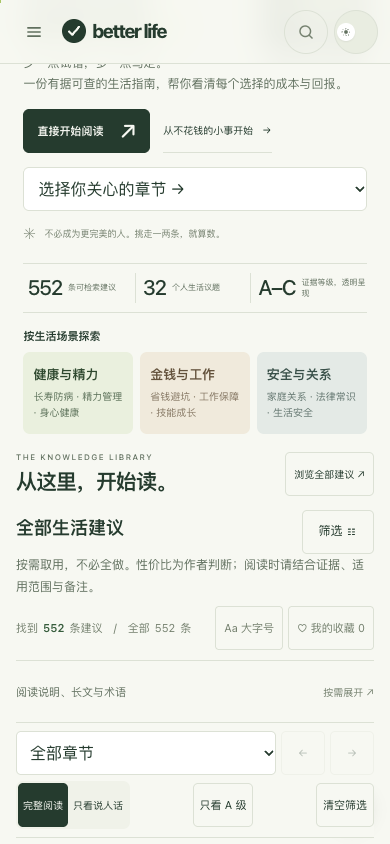
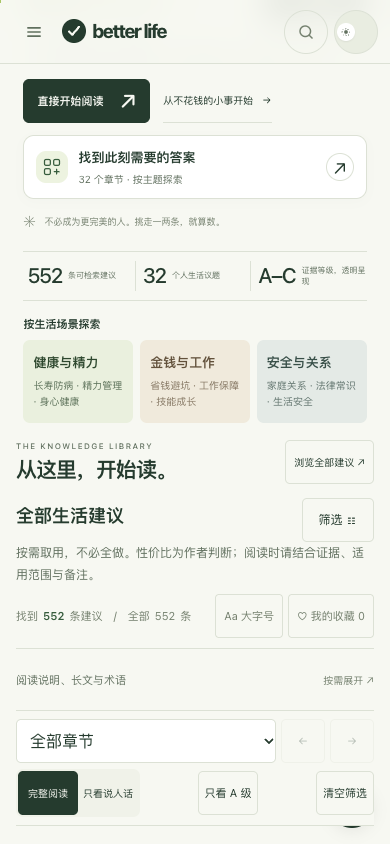
feat: 重设计章节导航并统一全站交互动效

diff --git a/index.html b/index.html
@@ -319,6 +319,39 @@ html{scroll-padding-top:calc(var(--nav-h) + 16px)}
 .card,.sec-block,#companions,.companion-guide{scroll-margin-top:max(0px,calc(var(--reading-offset,230px) - var(--nav-h) - 16px))}
 
 /* RESPONSIVE STYLE END */
+/* EXPERIENCE STYLE BEGIN */
+/* A small, shared motion vocabulary: arrive, select, expand. */
+:root{--ease-out:cubic-bezier(.22,1,.36,1);--motion-fast:180ms;--motion-slow:420ms}
+.hero-chapter{display:block;max-width:460px;margin-top:18px}
+#hero-chapter{width:100%;display:flex;align-items:center;gap:14px;text-align:left;padding:12px 16px;border:1px solid var(--divider);border-radius:12px;background:var(--bg-elv);color:var(--t1);box-shadow:0 3px 12px #1c362a05;transition:border-color .25s,box-shadow .25s,transform .25s}
+.chapter-launch-icon{display:grid;place-items:center;width:36px;height:36px;border-radius:10px;background:var(--brand-soft);flex-shrink:0}.chapter-launch-icon svg{width:20px;height:20px;stroke:var(--brand-1);fill:none;stroke-width:1.5}
+.chapter-launch-copy{display:block;min-width:0;flex:1}.chapter-launch-title{display:block;font-size:14px;font-weight:550;white-space:nowrap;overflow:hidden;text-overflow:ellipsis}.chapter-launch-note{display:block;font-size:11px;color:var(--t2);margin-top:3px}.chapter-launch-arrow{width:30px;height:30px;border-radius:50%;display:grid;place-items:center;border:1px solid var(--divider);font-size:18px;transition:transform .3s var(--ease-out),background .3s}
+#hero-chapter:hover{border-color:#8caa7c;box-shadow:0 8px 26px #243c2910;transform:translateY(-2px)}#hero-chapter:hover .chapter-launch-arrow{transform:rotate(45deg);background:var(--brand-soft)}#hero-chapter:focus-visible{outline:2px solid var(--brand-1);outline-offset:4px}
+.navigator-open{overflow:hidden;scrollbar-gutter:stable}
+#chapter-navigator{width:min(760px,calc(100vw - 48px));max-height:min(780px,calc(100dvh - 64px));padding:28px;border:1px solid var(--divider);border-radius:22px;background:var(--bg);color:var(--t1);box-shadow:0 32px 120px #061a3055;overflow:auto;overscroll-behavior:contain;scrollbar-width:thin}
+#chapter-navigator::backdrop{background:#10251ed0;backdrop-filter:blur(9px);animation:backdrop-arrive .35s ease-out}
+.navigator-head{display:flex;align-items:flex-start;justify-content:space-between;gap:15px}.navigator-eyebrow{font-size:10px;letter-spacing:2px;color:var(--t2)}.navigator-head h2{font-size:28px;letter-spacing:-1px;margin:7px 0 20px;font-weight:550}.navigator-close{width:44px;height:44px;flex-shrink:0;font-size:25px;border:1px solid var(--divider);border-radius:50%;background:var(--bg-elv)}
+.navigator-search{display:flex;align-items:center;gap:12px;border:1px solid var(--divider);border-radius:10px;background:var(--bg-elv);padding:0 14px;transition:box-shadow .2s,border-color .2s}.navigator-search:focus-within{border-color:var(--brand-1);box-shadow:0 0 0 3px var(--brand-soft)}.navigator-search svg{width:20px;height:20px;stroke:var(--t2);stroke-width:1.5;fill:none;flex-shrink:0}.navigator-search input{width:100%;min-width:0;min-height:50px;border:0;outline:0;background:transparent;color:var(--t1);font:inherit;font-size:16px}
+.navigator-topics{display:flex;gap:7px;margin:18px 0 12px;flex-wrap:wrap}.navigator-topics button{min-height:40px;padding:7px 12px;border:1px solid var(--divider);border-radius:30px;font-size:12px;transition:background .2s,color .2s}.navigator-topics button[aria-pressed="true"]{background:var(--t1);color:var(--bg);border-color:var(--t1)}.navigator-status{font-size:11px;color:var(--t2);margin-bottom:10px}
+.navigator-grid{display:grid;grid-template-columns:repeat(2,minmax(0,1fr));gap:8px}.navigator-chapter{display:flex;align-items:center;gap:12px;min-height:74px;padding:12px;text-align:left;border:1px solid var(--divider);border-radius:10px;background:var(--bg-elv);transition:background .2s,border-color .2s,transform .2s}.navigator-number{font-size:19px;color:var(--t3);font-variant-numeric:tabular-nums}.navigator-chapter>span:nth-child(2){flex:1;min-width:0}.navigator-chapter strong{display:block;font-size:13px;font-weight:550;line-height:1.5}.navigator-chapter small{display:block;margin-top:5px;font-size:10px;color:var(--t2)}.navigator-arrow{font-size:18px;color:var(--t3);transition:transform .25s}.navigator-chapter:hover,.navigator-chapter[aria-current="true"]{background:var(--bg-alt);border-color:#8caa7c}.navigator-chapter:hover .navigator-arrow{transform:translate(2px,-2px)}.navigator-chapter:focus-visible{outline:2px solid var(--brand-1);outline-offset:2px}.navigator-empty{padding:36px 12px;text-align:center;font-size:14px;color:var(--t2)}.navigator-foot{display:flex;align-items:center;justify-content:space-between;gap:16px;margin-top:18px;border-top:1px solid var(--divider);padding-top:12px;font-size:11px;color:var(--t2)}.navigator-all{min-height:44px;color:var(--brand-1);font-size:12px}
+.hero-art{transform:perspective(1100px) rotateX(var(--tilt-x,0deg)) rotateY(var(--tilt-y,0deg));transition:transform .6s var(--ease-out)}
+.segmented{position:relative;isolation:isolate;display:grid;grid-template-columns:1fr 1fr}.segmented:before{content:"";position:absolute;inset:3px auto 3px 3px;width:calc((100% - 6px)/2);border-radius:5px;background:var(--t1);z-index:-1;transition:transform .32s var(--ease-out)}.brief-reading .segmented:before{transform:translateX(100%)}.reading-tools .segmented button[aria-pressed="true"]{background:transparent}.segmented button{transition:color .22s}
+.primary:active,.navigator-chapter:active,.path-card:active,#hero-chapter:active{transform:scale(.985)}
+.nav,.sidebar,.reading-tools,.card,.companion-guide,#companions{transition:background-color .25s,border-color .25s,box-shadow .25s}.nav{backdrop-filter:blur(16px)}
+@keyframes backdrop-arrive{from{opacity:0}to{opacity:1}}
+@media(max-width:640px){.hero-chapter{max-width:none;margin-top:12px}#hero-chapter{padding:10px 12px;gap:10px;border-radius:11px}.chapter-launch-title{font-size:13px}.chapter-launch-note{font-size:10px}.chapter-launch-icon{width:32px;height:32px}.chapter-launch-arrow{width:28px;height:28px}#chapter-navigator{width:100%;max-width:100%;max-height:90dvh;margin:auto 0 0;border-radius:22px 22px 0 0;padding:20px 16px max(20px,env(safe-area-inset-bottom));border-bottom:0}.navigator-head h2{font-size:24px;margin-bottom:16px}.navigator-topics{gap:6px;margin-top:14px}.navigator-topics button{min-height:44px;padding:8px 11px;font-size:12px}.navigator-grid{grid-template-columns:1fr}.navigator-chapter{min-height:70px;padding:12px 14px}.navigator-chapter strong{font-size:15px}.navigator-chapter small{font-size:11px}.navigator-foot>span{display:none}.navigator-foot{justify-content:flex-end}.segmented:before{inset:2px auto 2px 2px;width:calc((100% - 4px)/2)}}
+@media(max-height:500px){#chapter-navigator{max-height:calc(100dvh - 16px);padding:16px}.navigator-head h2{font-size:22px;margin-bottom:10px}}
+@media(prefers-reduced-motion:reduce){*,*:before,*:after{animation:none!important;transition:none!important;scroll-behavior:auto!important}.hero-art{transform:none!important}}
+
+#chapter-navigator[open]{display:flex;flex-direction:column;overflow:hidden}.navigator-head,.navigator-search,.navigator-topics,.navigator-status,.navigator-foot{flex-shrink:0}.navigator-grid{overflow-y:auto;min-height:0;padding:2px;overscroll-behavior:contain;scrollbar-width:thin}.sidebar{transition:transform .4s var(--ease-out),background-color .25s}
+@media(prefers-reduced-motion:reduce){#chapter-navigator::backdrop{animation:none!important}}
+
+@keyframes hero-arrive{from{opacity:0;transform:translateY(16px)}to{opacity:1;transform:none}}
+@keyframes art-arrive{from{opacity:0}to{opacity:1}}
+@media(prefers-reduced-motion:no-preference){.hero-copy{animation:hero-arrive .7s var(--ease-out) both}.hero-art{animation:art-arrive .9s ease-out both}}
+@media(max-height:500px){.navigator-eyebrow{display:none}.navigator-head h2{margin:4px 0 10px;font-size:20px}.navigator-head{align-items:center}.navigator-search input{min-height:44px}.navigator-topics{flex-wrap:nowrap;overflow-x:auto;margin:8px 0;flex-shrink:0}.navigator-topics button{white-space:nowrap;flex-shrink:0;min-height:40px}.navigator-foot{margin-top:8px;padding-top:4px}.navigator-status{margin-bottom:6px}}
+
+/* EXPERIENCE STYLE END */
 </style>
 </head>
 <body>
@@ -383,7 +416,7 @@ html{scroll-padding-top:calc(var(--nav-h) + 16px)}
     <h1 id="hero-title">人生很贵。<br>把力气花在<span class="headline-em">值得的事。</span></h1>
     <p class="hero-desc">少一点试错，多一点笃定。<br>一份有据可查的生活指南，帮你看清每个选择的成本与回报。</p>
     <div class="hero-actions"><a class="primary" href="#library">直接开始阅读 <span>↗</span></a><button class="text-action" id="easy-start">从不花钱的小事开始 <span>→</span></button></div>
-    <div class="hero-chapter"><label for="hero-chapter">32 个章节，按需查阅</label><select id="hero-chapter"><option value="">选择你关心的章节 →</option></select></div>
+    <div class="hero-chapter"><button id="hero-chapter" type="button" aria-haspopup="dialog" aria-controls="chapter-navigator" aria-expanded="false"><span class="chapter-launch-icon" aria-hidden="true"><svg viewBox="0 0 24 24"><rect x="3" y="3" width="7" height="7" rx="2"/><rect x="14" y="3" width="7" height="7" rx="2"/><rect x="3" y="14" width="7" height="7" rx="2"/><path d="M14 17.5h7m-3.5-3.5v7"/></svg></span><span class="chapter-launch-copy"><strong class="chapter-launch-title">找到此刻需要的答案</strong><span class="chapter-launch-note">32 个章节 · 按主题探索</span></span><span class="chapter-launch-arrow" aria-hidden="true">↗</span></button></div>
     <div class="hero-note"><span class="tiny-mark">✳</span> 不必成为更完美的人。挑走一两条，就算数。</div>
   </div>
   <div class="hero-art" aria-hidden="true">
@@ -980,6 +1013,60 @@ function revealCompanion(){
 }
 
 /* COMPANION SCRIPT END */
+/* EXPERIENCE SCRIPT BEGIN */
+/* Chapter navigator and motion: no external dependencies, including offline builds. */
+let chapterNavigator;
+function syncChapterLauncher(){
+  const n=state.sec.size===1?[...state.sec][0]:'';
+  const button=document.getElementById('hero-chapter');button.value=n;
+  button.querySelector('.chapter-launch-title').textContent=n?SECS.get(n).title:'找到此刻需要的答案';
+  button.querySelector('.chapter-launch-note').textContent=n?'正在阅读第 '+n+' 章 · 点击切换':'32 个章节 · 按主题探索';
+}
+function initExperience(){
+  const reduced=matchMedia('(prefers-reduced-motion: reduce)');
+  const animate=(el,frames,options={})=>{if(!reduced.matches&&el) return el.animate(frames,{duration:320,easing:'cubic-bezier(.22,1,.36,1)',...options});};
+  const dialog=document.createElement('dialog');dialog.id='chapter-navigator';dialog.setAttribute('aria-labelledby','navigator-title');
+  dialog.innerHTML='<div class="navigator-head"><div><span class="navigator-eyebrow">YOUR NEXT CHAPTER</span><h2 id="navigator-title">从此刻的需要开始。</h2></div><button class="navigator-close" aria-label="关闭章节导航">×</button></div><label class="navigator-search"><svg viewBox="0 0 24 24" aria-hidden="true"><circle cx="10" cy="10" r="6"/><path d="m15 15 5 5"/></svg><input id="chapter-query" type="search" placeholder="搜索章节名称或编号" aria-label="搜索章节" autocomplete="off"></label><div class="navigator-topics" role="group" aria-label="按主题筛选"></div><div class="navigator-status" aria-live="polite"></div><div class="navigator-grid"></div><p class="navigator-empty" hidden>暂时没有匹配章节，试试其他关键词。</p><div class="navigator-foot"><span>选择一章，直接开始阅读</span><button class="navigator-all">浏览全部章节 <span aria-hidden="true">↗</span></button></div>';
+  document.body.appendChild(dialog);chapterNavigator=dialog;
+  const groups=[['全部',null],['健康与状态',['1','2','3','13','16','17','20','22','24','27','28']],['时间与成长',['4','19','23','30','31','32']],['财务与风险',['5','6','7','8','9','11','12','14','26']],['关系与生活',['10','15','18','21','25','29']]];
+  const grid=dialog.querySelector('.navigator-grid'),query=dialog.querySelector('input');let category=0;let opener;
+  for(const [i,[name]] of groups.entries()){const b=document.createElement('button');b.textContent=name;b.dataset.category=i;b.setAttribute('aria-pressed',String(i===0));dialog.querySelector('.navigator-topics').appendChild(b);}
+  for(const [n,s] of SECS){const b=document.createElement('button');b.className='navigator-chapter';b.dataset.chapter=n;b.innerHTML='<span class="navigator-number">'+n.padStart(2,'0')+'</span><span><strong>'+esc(s.title)+'</strong><small>'+s.entries.length+' 条建议</small></span><span class="navigator-arrow" aria-hidden="true">↗</span>';grid.appendChild(b);}
+  const render=()=>{let count=0;const terms=query.value.trim().toLowerCase().split(/\s+/).filter(Boolean);for(const b of grid.children){const s=SECS.get(b.dataset.chapter);b.hidden=!!(groups[category][1]&&!groups[category][1].includes(s.n))||!terms.every(t=>(s.n+' '+s.title).toLowerCase().includes(t));b.setAttribute('aria-current',String(state.sec.size===1&&state.sec.has(s.n)));if(!b.hidden)count++;}dialog.querySelector('.navigator-status').textContent=count+' 个章节';dialog.querySelector('.navigator-empty').hidden=count>0;grid.scrollTop=0;};
+  const open=()=>{opener=document.activeElement;category=0;query.value='';dialog.querySelectorAll('[data-category]').forEach(b=>b.setAttribute('aria-pressed',String(b.dataset.category==='0')));render();dialog.showModal();document.documentElement.classList.add('navigator-open');document.getElementById('hero-chapter').setAttribute('aria-expanded','true');(innerWidth>640?query:dialog.querySelector('.navigator-close')).focus({preventScroll:true});animate(dialog,[{opacity:0,transform:innerWidth<=640?'translateY(36px)':'translateY(16px) scale(.97)'},{opacity:1,transform:'none'}],{duration:420});};
+  const close=()=>{dialog.close();document.documentElement.classList.remove('navigator-open');document.getElementById('hero-chapter').setAttribute('aria-expanded','false');opener?.focus({preventScroll:true});};
+  dialog.addEventListener('cancel',e=>{e.preventDefault();close();});
+  document.getElementById('hero-chapter').addEventListener('click',open);
+  dialog.querySelector('.navigator-close').addEventListener('click',close);
+  dialog.addEventListener('click',e=>{if(e.target===dialog){const r=dialog.getBoundingClientRect();if(e.clientX<r.left||e.clientX>r.right||e.clientY<r.top||e.clientY>r.bottom)close();}});
+  dialog.addEventListener('close',()=>{if(!dialog.open){document.documentElement.classList.remove('navigator-open');document.getElementById('hero-chapter').setAttribute('aria-expanded','false');}});
+  query.addEventListener('input',render);
+  dialog.querySelector('.navigator-topics').addEventListener('click',e=>{const b=e.target.closest('[data-category]');if(!b)return;category=+b.dataset.category;dialog.querySelectorAll('[data-category]').forEach(x=>x.setAttribute('aria-pressed',String(x===b)));render();animate(grid,[{opacity:.4,transform:'translateY(6px)'},{opacity:1,transform:'none'}]);});
+  const choose=n=>{close();onlySaved=false;state.q='';for(const d of DIMS)state[d].clear();if(n)state.sec.add(n);state.dispute=false;state.todo=false;apply();const title=document.getElementById('reading-title');title.tabIndex=-1;title.focus({preventScroll:true});document.getElementById('library').scrollIntoView({behavior:reduced.matches?'instant':'smooth'});};
+  grid.addEventListener('click',e=>{const b=e.target.closest('[data-chapter]');if(b)choose(b.dataset.chapter);});
+  dialog.querySelector('.navigator-all').addEventListener('click',()=>choose(''));
+  query.addEventListener('keydown',e=>{if(e.key==='ArrowDown'){e.preventDefault();grid.querySelector('button:not([hidden])')?.focus();}if(e.key==='Enter'){const results=[...grid.children].filter(b=>!b.hidden);if(results.length===1){e.preventDefault();choose(results[0].dataset.chapter);}}});
+  // Native dialog traps focus and Escape closes it. Do not run global shortcuts inside it.
+  dialog.addEventListener('keydown',e=>e.stopPropagation());
+  const reveal=new IntersectionObserver(entries=>{for(const entry of entries){if(!entry.isIntersecting)continue;animate(entry.target,[{opacity:0,transform:'translateY(16px)'},{opacity:1,transform:'none'}],{duration:650});reveal.unobserve(entry.target);}},{threshold:.15});
+  document.querySelectorAll('.path-card,.library-heading').forEach(el=>{if(el.getBoundingClientRect().top>=innerHeight)reveal.observe(el);});
+  document.addEventListener('toggle',e=>{if(e.target.tagName!=='DETAILS'||!e.target.open)return;const body=e.target.querySelector('.guide-content,.companion-body,.body,nav');if(body)animate(body,[{opacity:0,transform:'translateY(8px)'},{opacity:1,transform:'none'}],{duration:280});},true);
+  document.addEventListener('click',e=>{const b=e.target.closest('[data-save]');if(b)animate(b,[{transform:'scale(1)'},{transform:'scale(1.23)',offset:.45},{transform:'scale(1)'}],{duration:360});});
+  const art=document.querySelector('.hero-art');let frame=0;
+  art.addEventListener('pointermove',e=>{if(reduced.matches||!matchMedia('(hover:hover) and (pointer:fine)').matches)return;cancelAnimationFrame(frame);frame=requestAnimationFrame(()=>{const r=art.getBoundingClientRect();art.style.setProperty('--tilt-x',((e.clientY-r.top)/r.height-.5)*-5+'deg');art.style.setProperty('--tilt-y',((e.clientX-r.left)/r.width-.5)*5+'deg');});});
+  art.addEventListener('pointerleave',()=>{cancelAnimationFrame(frame);art.style.setProperty('--tilt-x','0deg');art.style.setProperty('--tilt-y','0deg');});
+  let artVisible=true;const pauseArt=()=>{art.querySelector('.sculpture').style.animationPlayState=artVisible&&!document.hidden?'running':'paused';};new IntersectionObserver(entries=>{artVisible=entries[0].isIntersecting;pauseArt();}).observe(art);document.addEventListener('visibilitychange',pauseArt);
+  reduced.addEventListener('change',()=>{if(reduced.matches){document.getAnimations().forEach(a=>a.cancel());art.style.setProperty('--tilt-x','0deg');art.style.setProperty('--tilt-y','0deg');}});
+}
+let lastMotionKey='';
+function animateReadingChange(){
+  const key=location.search+'|'+document.documentElement.classList.contains('brief-reading');
+  if(key===lastMotionKey)return;lastMotionKey=key;
+  if(matchMedia('(prefers-reduced-motion: reduce)').matches)return;
+  CARDS.filter(c=>!c.el.hidden).slice(0,5).forEach((c,i)=>{c.el.getAnimations().forEach(a=>a.cancel());c.el.animate([{opacity:.25,transform:'translateY(8px)'},{opacity:1,transform:'none'}],{duration:300,delay:i*28,easing:'cubic-bezier(.22,1,.36,1)'});});
+}
+
+/* EXPERIENCE SCRIPT END */
 function build(sections){
   for (const s of sections){ SECS.set(s.n, s); for (const e of s.entries) ITEMS.set(`${s.n}-${e.n}`, e); }
   const list = document.getElementById('list');
@@ -1031,7 +1118,7 @@ function build(sections){
     list.appendChild(block);
     BLOCKS.push({n:s.n, el:block, k:block.querySelector('.shown .k')});
   }
-  for (const sec of sections) {const opt=document.createElement('option');opt.value=sec.n;opt.textContent=sec.n+'. '+sec.title;document.getElementById('chapter-select').appendChild(opt);document.getElementById('hero-chapter').appendChild(opt.cloneNode(true));}
+  for (const sec of sections) {const opt=document.createElement('option');opt.value=sec.n;opt.textContent=sec.n+'. '+sec.title;document.getElementById('chapter-select').appendChild(opt);}
   document.getElementById('tot').textContent = CARDS.length; document.getElementById('hero-total').textContent = CARDS.length; document.getElementById('saved-count').textContent = saved.size;
 }
 function buildGlossary(){
@@ -1116,7 +1203,7 @@ function apply(){
   document.getElementById('empty').hidden = shown !== 0 || guideCount !== 0;
   document.getElementById('reading-title').textContent = onlySaved ? '我的收藏' : state.sec.size === 1 ? (SECS.get([...state.sec][0])?.title || '筛选结果') : state.sec.size ? '为你筛选的生活建议' : state.q ? '搜索：' + state.q : '全部生活建议';
   document.getElementById('saved-filter').setAttribute('aria-pressed', String(onlySaved));
-  syncControls(); syncReadingTools(); writeUrl();
+  syncControls(); syncReadingTools(); writeUrl(); animateReadingChange();
   PERF.log('apply', t0, `命中 ${shown} 条，重渲染 ${rerender} 张`);
 }
 
@@ -1127,7 +1214,7 @@ function syncReadingTools(){
   if(state.sec.size>1&&!multi){multi=new Option('已选 '+state.sec.size+' 个章节','multi');multi.disabled=true;select.add(multi);}
   if(multi&&state.sec.size<=1)multi.remove();
   select.value=state.sec.size>1?'multi':state.sec.size?[...state.sec][0]:'';
-  document.getElementById('hero-chapter').value=state.sec.size===1?[...state.sec][0]:'';
+  syncChapterLauncher();
   const chapters=[...SECS.keys()], i=chapters.indexOf(select.value);
   document.getElementById('chapter-prev').disabled=i<=0;
   document.getElementById('chapter-next').disabled=i<0||i===chapters.length-1;
@@ -1149,7 +1236,6 @@ function wireReadingTools(reset){
   updateReadingOffset();
   const jump=()=>{apply();document.getElementById('reading-title').scrollIntoView({block:'start'});};
   const select=document.getElementById('chapter-select');
-  document.getElementById('hero-chapter').addEventListener('change',e=>{select.value=e.target.value;select.dispatchEvent(new Event('change'));});
   document.querySelector('a[href="#method"]').addEventListener('click',()=>{document.querySelector('.reading-help').open=true;document.getElementById('method').open=true;});
   select.addEventListener('change',()=>{state.sec=new Set(select.value?[select.value]:[]);jump();});
   for(const [id,step] of [['chapter-prev',-1],['chapter-next',1]])document.getElementById(id).addEventListener('click',()=>{const keys=[...SECS.keys()],i=keys.indexOf(select.value);if(i<0||!keys[i+step])return;state.sec=new Set([keys[i+step]]);jump();});
@@ -1307,7 +1393,7 @@ async function readText(path, tries = 3){
     PERF.log('解析正文', t1, files.length + ' 个文件');
     status.remove();
     const t2 = performance.now(); build(sections); PERF.log('建 DOM', t2, CARDS.length + ' 张卡');
-    buildCompanions(); buildGlossary(); readUrl(); wire(); revealCompanion(); apply();
+    buildCompanions(); buildGlossary(); readUrl(); wire(); initExperience(); revealCompanion(); apply();
     window.addEventListener('hashchange',()=>{if(location.hash.startsWith('#guide-')){revealCompanion();apply();document.querySelector(location.hash)?.scrollIntoView();}});
     PERF.mark(`DOM 节点 ${document.getElementsByTagName('*').length}，术语 ${GLOSS.length}`);
     if (location.hash){

diff --git a/tools/experience/interface.js b/tools/experience/interface.js
@@ -1,0 +1,51 @@
+/* Chapter navigator and motion: no external dependencies, including offline builds. */
+let chapterNavigator;
+function syncChapterLauncher(){
+  const n=state.sec.size===1?[...state.sec][0]:'';
+  const button=document.getElementById('hero-chapter');button.value=n;
+  button.querySelector('.chapter-launch-title').textContent=n?SECS.get(n).title:'找到此刻需要的答案';
+  button.querySelector('.chapter-launch-note').textContent=n?'正在阅读第 '+n+' 章 · 点击切换':'32 个章节 · 按主题探索';
+}
+function initExperience(){
+  const reduced=matchMedia('(prefers-reduced-motion: reduce)');
+  const animate=(el,frames,options={})=>{if(!reduced.matches&&el) return el.animate(frames,{duration:320,easing:'cubic-bezier(.22,1,.36,1)',...options});};
+  const dialog=document.createElement('dialog');dialog.id='chapter-navigator';dialog.setAttribute('aria-labelledby','navigator-title');
+  dialog.innerHTML='<div class="navigator-head"><div><span class="navigator-eyebrow">YOUR NEXT CHAPTER</span><h2 id="navigator-title">从此刻的需要开始。</h2></div><button class="navigator-close" aria-label="关闭章节导航">×</button></div><label class="navigator-search"><svg viewBox="0 0 24 24" aria-hidden="true"><circle cx="10" cy="10" r="6"/><path d="m15 15 5 5"/></svg><input id="chapter-query" type="search" placeholder="搜索章节名称或编号" aria-label="搜索章节" autocomplete="off"></label><div class="navigator-topics" role="group" aria-label="按主题筛选"></div><div class="navigator-status" aria-live="polite"></div><div class="navigator-grid"></div><p class="navigator-empty" hidden>暂时没有匹配章节，试试其他关键词。</p><div class="navigator-foot"><span>选择一章，直接开始阅读</span><button class="navigator-all">浏览全部章节 <span aria-hidden="true">↗</span></button></div>';
+  document.body.appendChild(dialog);chapterNavigator=dialog;
+  const groups=[['全部',null],['健康与状态',['1','2','3','13','16','17','20','22','24','27','28']],['时间与成长',['4','19','23','30','31','32']],['财务与风险',['5','6','7','8','9','11','12','14','26']],['关系与生活',['10','15','18','21','25','29']]];
+  const grid=dialog.querySelector('.navigator-grid'),query=dialog.querySelector('input');let category=0;let opener;
+  for(const [i,[name]] of groups.entries()){const b=document.createElement('button');b.textContent=name;b.dataset.category=i;b.setAttribute('aria-pressed',String(i===0));dialog.querySelector('.navigator-topics').appendChild(b);}
+  for(const [n,s] of SECS){const b=document.createElement('button');b.className='navigator-chapter';b.dataset.chapter=n;b.innerHTML='<span class="navigator-number">'+n.padStart(2,'0')+'</span><span><strong>'+esc(s.title)+'</strong><small>'+s.entries.length+' 条建议</small></span><span class="navigator-arrow" aria-hidden="true">↗</span>';grid.appendChild(b);}
+  const render=()=>{let count=0;const terms=query.value.trim().toLowerCase().split(/\s+/).filter(Boolean);for(const b of grid.children){const s=SECS.get(b.dataset.chapter);b.hidden=!!(groups[category][1]&&!groups[category][1].includes(s.n))||!terms.every(t=>(s.n+' '+s.title).toLowerCase().includes(t));b.setAttribute('aria-current',String(state.sec.size===1&&state.sec.has(s.n)));if(!b.hidden)count++;}dialog.querySelector('.navigator-status').textContent=count+' 个章节';dialog.querySelector('.navigator-empty').hidden=count>0;grid.scrollTop=0;};
+  const open=()=>{opener=document.activeElement;category=0;query.value='';dialog.querySelectorAll('[data-category]').forEach(b=>b.setAttribute('aria-pressed',String(b.dataset.category==='0')));render();dialog.showModal();document.documentElement.classList.add('navigator-open');document.getElementById('hero-chapter').setAttribute('aria-expanded','true');(innerWidth>640?query:dialog.querySelector('.navigator-close')).focus({preventScroll:true});animate(dialog,[{opacity:0,transform:innerWidth<=640?'translateY(36px)':'translateY(16px) scale(.97)'},{opacity:1,transform:'none'}],{duration:420});};
+  const close=()=>{dialog.close();document.documentElement.classList.remove('navigator-open');document.getElementById('hero-chapter').setAttribute('aria-expanded','false');opener?.focus({preventScroll:true});};
+  dialog.addEventListener('cancel',e=>{e.preventDefault();close();});
+  document.getElementById('hero-chapter').addEventListener('click',open);
+  dialog.querySelector('.navigator-close').addEventListener('click',close);
+  dialog.addEventListener('click',e=>{if(e.target===dialog){const r=dialog.getBoundingClientRect();if(e.clientX<r.left||e.clientX>r.right||e.clientY<r.top||e.clientY>r.bottom)close();}});
+  dialog.addEventListener('close',()=>{if(!dialog.open){document.documentElement.classList.remove('navigator-open');document.getElementById('hero-chapter').setAttribute('aria-expanded','false');}});
+  query.addEventListener('input',render);
+  dialog.querySelector('.navigator-topics').addEventListener('click',e=>{const b=e.target.closest('[data-category]');if(!b)return;category=+b.dataset.category;dialog.querySelectorAll('[data-category]').forEach(x=>x.setAttribute('aria-pressed',String(x===b)));render();animate(grid,[{opacity:.4,transform:'translateY(6px)'},{opacity:1,transform:'none'}]);});
+  const choose=n=>{close();onlySaved=false;state.q='';for(const d of DIMS)state[d].clear();if(n)state.sec.add(n);state.dispute=false;state.todo=false;apply();const title=document.getElementById('reading-title');title.tabIndex=-1;title.focus({preventScroll:true});document.getElementById('library').scrollIntoView({behavior:reduced.matches?'instant':'smooth'});};
+  grid.addEventListener('click',e=>{const b=e.target.closest('[data-chapter]');if(b)choose(b.dataset.chapter);});
+  dialog.querySelector('.navigator-all').addEventListener('click',()=>choose(''));
+  query.addEventListener('keydown',e=>{if(e.key==='ArrowDown'){e.preventDefault();grid.querySelector('button:not([hidden])')?.focus();}if(e.key==='Enter'){const results=[...grid.children].filter(b=>!b.hidden);if(results.length===1){e.preventDefault();choose(results[0].dataset.chapter);}}});
+  // Native dialog traps focus and Escape closes it. Do not run global shortcuts inside it.
+  dialog.addEventListener('keydown',e=>e.stopPropagation());
+  const reveal=new IntersectionObserver(entries=>{for(const entry of entries){if(!entry.isIntersecting)continue;animate(entry.target,[{opacity:0,transform:'translateY(16px)'},{opacity:1,transform:'none'}],{duration:650});reveal.unobserve(entry.target);}},{threshold:.15});
+  document.querySelectorAll('.path-card,.library-heading').forEach(el=>{if(el.getBoundingClientRect().top>=innerHeight)reveal.observe(el);});
+  document.addEventListener('toggle',e=>{if(e.target.tagName!=='DETAILS'||!e.target.open)return;const body=e.target.querySelector('.guide-content,.companion-body,.body,nav');if(body)animate(body,[{opacity:0,transform:'translateY(8px)'},{opacity:1,transform:'none'}],{duration:280});},true);
+  document.addEventListener('click',e=>{const b=e.target.closest('[data-save]');if(b)animate(b,[{transform:'scale(1)'},{transform:'scale(1.23)',offset:.45},{transform:'scale(1)'}],{duration:360});});
+  const art=document.querySelector('.hero-art');let frame=0;
+  art.addEventListener('pointermove',e=>{if(reduced.matches||!matchMedia('(hover:hover) and (pointer:fine)').matches)return;cancelAnimationFrame(frame);frame=requestAnimationFrame(()=>{const r=art.getBoundingClientRect();art.style.setProperty('--tilt-x',((e.clientY-r.top)/r.height-.5)*-5+'deg');art.style.setProperty('--tilt-y',((e.clientX-r.left)/r.width-.5)*5+'deg');});});
+  art.addEventListener('pointerleave',()=>{cancelAnimationFrame(frame);art.style.setProperty('--tilt-x','0deg');art.style.setProperty('--tilt-y','0deg');});
+  let artVisible=true;const pauseArt=()=>{art.querySelector('.sculpture').style.animationPlayState=artVisible&&!document.hidden?'running':'paused';};new IntersectionObserver(entries=>{artVisible=entries[0].isIntersecting;pauseArt();}).observe(art);document.addEventListener('visibilitychange',pauseArt);
+  reduced.addEventListener('change',()=>{if(reduced.matches){document.getAnimations().forEach(a=>a.cancel());art.style.setProperty('--tilt-x','0deg');art.style.setProperty('--tilt-y','0deg');}});
+}
+let lastMotionKey='';
+function animateReadingChange(){
+  const key=location.search+'|'+document.documentElement.classList.contains('brief-reading');
+  if(key===lastMotionKey)return;lastMotionKey=key;
+  if(matchMedia('(prefers-reduced-motion: reduce)').matches)return;
+  CARDS.filter(c=>!c.el.hidden).slice(0,5).forEach((c,i)=>{c.el.getAnimations().forEach(a=>a.cancel());c.el.animate([{opacity:.25,transform:'translateY(8px)'},{opacity:1,transform:'none'}],{duration:300,delay:i*28,easing:'cubic-bezier(.22,1,.36,1)'});});
+}

diff --git a/assets/experience.css b/assets/experience.css
@@ -1,0 +1,30 @@
+/* A small, shared motion vocabulary: arrive, select, expand. */
+:root{--ease-out:cubic-bezier(.22,1,.36,1);--motion-fast:180ms;--motion-slow:420ms}
+.hero-chapter{display:block;max-width:460px;margin-top:18px}
+#hero-chapter{width:100%;display:flex;align-items:center;gap:14px;text-align:left;padding:12px 16px;border:1px solid var(--divider);border-radius:12px;background:var(--bg-elv);color:var(--t1);box-shadow:0 3px 12px #1c362a05;transition:border-color .25s,box-shadow .25s,transform .25s}
+.chapter-launch-icon{display:grid;place-items:center;width:36px;height:36px;border-radius:10px;background:var(--brand-soft);flex-shrink:0}.chapter-launch-icon svg{width:20px;height:20px;stroke:var(--brand-1);fill:none;stroke-width:1.5}
+.chapter-launch-copy{display:block;min-width:0;flex:1}.chapter-launch-title{display:block;font-size:14px;font-weight:550;white-space:nowrap;overflow:hidden;text-overflow:ellipsis}.chapter-launch-note{display:block;font-size:11px;color:var(--t2);margin-top:3px}.chapter-launch-arrow{width:30px;height:30px;border-radius:50%;display:grid;place-items:center;border:1px solid var(--divider);font-size:18px;transition:transform .3s var(--ease-out),background .3s}
+#hero-chapter:hover{border-color:#8caa7c;box-shadow:0 8px 26px #243c2910;transform:translateY(-2px)}#hero-chapter:hover .chapter-launch-arrow{transform:rotate(45deg);background:var(--brand-soft)}#hero-chapter:focus-visible{outline:2px solid var(--brand-1);outline-offset:4px}
+.navigator-open{overflow:hidden;scrollbar-gutter:stable}
+#chapter-navigator{width:min(760px,calc(100vw - 48px));max-height:min(780px,calc(100dvh - 64px));padding:28px;border:1px solid var(--divider);border-radius:22px;background:var(--bg);color:var(--t1);box-shadow:0 32px 120px #061a3055;overflow:auto;overscroll-behavior:contain;scrollbar-width:thin}
+#chapter-navigator::backdrop{background:#10251ed0;backdrop-filter:blur(9px);animation:backdrop-arrive .35s ease-out}
+.navigator-head{display:flex;align-items:flex-start;justify-content:space-between;gap:15px}.navigator-eyebrow{font-size:10px;letter-spacing:2px;color:var(--t2)}.navigator-head h2{font-size:28px;letter-spacing:-1px;margin:7px 0 20px;font-weight:550}.navigator-close{width:44px;height:44px;flex-shrink:0;font-size:25px;border:1px solid var(--divider);border-radius:50%;background:var(--bg-elv)}
+.navigator-search{display:flex;align-items:center;gap:12px;border:1px solid var(--divider);border-radius:10px;background:var(--bg-elv);padding:0 14px;transition:box-shadow .2s,border-color .2s}.navigator-search:focus-within{border-color:var(--brand-1);box-shadow:0 0 0 3px var(--brand-soft)}.navigator-search svg{width:20px;height:20px;stroke:var(--t2);stroke-width:1.5;fill:none;flex-shrink:0}.navigator-search input{width:100%;min-width:0;min-height:50px;border:0;outline:0;background:transparent;color:var(--t1);font:inherit;font-size:16px}
+.navigator-topics{display:flex;gap:7px;margin:18px 0 12px;flex-wrap:wrap}.navigator-topics button{min-height:40px;padding:7px 12px;border:1px solid var(--divider);border-radius:30px;font-size:12px;transition:background .2s,color .2s}.navigator-topics button[aria-pressed="true"]{background:var(--t1);color:var(--bg);border-color:var(--t1)}.navigator-status{font-size:11px;color:var(--t2);margin-bottom:10px}
+.navigator-grid{display:grid;grid-template-columns:repeat(2,minmax(0,1fr));gap:8px}.navigator-chapter{display:flex;align-items:center;gap:12px;min-height:74px;padding:12px;text-align:left;border:1px solid var(--divider);border-radius:10px;background:var(--bg-elv);transition:background .2s,border-color .2s,transform .2s}.navigator-number{font-size:19px;color:var(--t3);font-variant-numeric:tabular-nums}.navigator-chapter>span:nth-child(2){flex:1;min-width:0}.navigator-chapter strong{display:block;font-size:13px;font-weight:550;line-height:1.5}.navigator-chapter small{display:block;margin-top:5px;font-size:10px;color:var(--t2)}.navigator-arrow{font-size:18px;color:var(--t3);transition:transform .25s}.navigator-chapter:hover,.navigator-chapter[aria-current="true"]{background:var(--bg-alt);border-color:#8caa7c}.navigator-chapter:hover .navigator-arrow{transform:translate(2px,-2px)}.navigator-chapter:focus-visible{outline:2px solid var(--brand-1);outline-offset:2px}.navigator-empty{padding:36px 12px;text-align:center;font-size:14px;color:var(--t2)}.navigator-foot{display:flex;align-items:center;justify-content:space-between;gap:16px;margin-top:18px;border-top:1px solid var(--divider);padding-top:12px;font-size:11px;color:var(--t2)}.navigator-all{min-height:44px;color:var(--brand-1);font-size:12px}
+.hero-art{transform:perspective(1100px) rotateX(var(--tilt-x,0deg)) rotateY(var(--tilt-y,0deg));transition:transform .6s var(--ease-out)}
+.segmented{position:relative;isolation:isolate;display:grid;grid-template-columns:1fr 1fr}.segmented:before{content:"";position:absolute;inset:3px auto 3px 3px;width:calc((100% - 6px)/2);border-radius:5px;background:var(--t1);z-index:-1;transition:transform .32s var(--ease-out)}.brief-reading .segmented:before{transform:translateX(100%)}.reading-tools .segmented button[aria-pressed="true"]{background:transparent}.segmented button{transition:color .22s}
+.primary:active,.navigator-chapter:active,.path-card:active,#hero-chapter:active{transform:scale(.985)}
+.nav,.sidebar,.reading-tools,.card,.companion-guide,#companions{transition:background-color .25s,border-color .25s,box-shadow .25s}.nav{backdrop-filter:blur(16px)}
+@keyframes backdrop-arrive{from{opacity:0}to{opacity:1}}
+@media(max-width:640px){.hero-chapter{max-width:none;margin-top:12px}#hero-chapter{padding:10px 12px;gap:10px;border-radius:11px}.chapter-launch-title{font-size:13px}.chapter-launch-note{font-size:10px}.chapter-launch-icon{width:32px;height:32px}.chapter-launch-arrow{width:28px;height:28px}#chapter-navigator{width:100%;max-width:100%;max-height:90dvh;margin:auto 0 0;border-radius:22px 22px 0 0;padding:20px 16px max(20px,env(safe-area-inset-bottom));border-bottom:0}.navigator-head h2{font-size:24px;margin-bottom:16px}.navigator-topics{gap:6px;margin-top:14px}.navigator-topics button{min-height:44px;padding:8px 11px;font-size:12px}.navigator-grid{grid-template-columns:1fr}.navigator-chapter{min-height:70px;padding:12px 14px}.navigator-chapter strong{font-size:15px}.navigator-chapter small{font-size:11px}.navigator-foot>span{display:none}.navigator-foot{justify-content:flex-end}.segmented:before{inset:2px auto 2px 2px;width:calc((100% - 4px)/2)}}
+@media(max-height:500px){#chapter-navigator{max-height:calc(100dvh - 16px);padding:16px}.navigator-head h2{font-size:22px;margin-bottom:10px}}
+@media(prefers-reduced-motion:reduce){*,*:before,*:after{animation:none!important;transition:none!important;scroll-behavior:auto!important}.hero-art{transform:none!important}}
+
+#chapter-navigator[open]{display:flex;flex-direction:column;overflow:hidden}.navigator-head,.navigator-search,.navigator-topics,.navigator-status,.navigator-foot{flex-shrink:0}.navigator-grid{overflow-y:auto;min-height:0;padding:2px;overscroll-behavior:contain;scrollbar-width:thin}.sidebar{transition:transform .4s var(--ease-out),background-color .25s}
+@media(prefers-reduced-motion:reduce){#chapter-navigator::backdrop{animation:none!important}}
+
+@keyframes hero-arrive{from{opacity:0;transform:translateY(16px)}to{opacity:1;transform:none}}
+@keyframes art-arrive{from{opacity:0}to{opacity:1}}
+@media(prefers-reduced-motion:no-preference){.hero-copy{animation:hero-arrive .7s var(--ease-out) both}.hero-art{animation:art-arrive .9s ease-out both}}
+@media(max-height:500px){.navigator-eyebrow{display:none}.navigator-head h2{margin:4px 0 10px;font-size:20px}.navigator-head{align-items:center}.navigator-search input{min-height:44px}.navigator-topics{flex-wrap:nowrap;overflow-x:auto;margin:8px 0;flex-shrink:0}.navigator-topics button{white-space:nowrap;flex-shrink:0;min-height:40px}.navigator-foot{margin-top:8px;padding-top:4px}.navigator-status{margin-bottom:6px}}

diff --git a/README.md b/README.md
@@ -11,9 +11,10 @@
 ## 为阅读而设计
 
 - **找到起点**：健康与精力、金钱与工作、安全与关系三个场景。
-- **自由切换**：章节选择、上一章 / 下一章、章内目录、完整阅读 / 只看说人话。
+- **章节导航**：可搜索的主题面板，电脑双列、手机底部展开，支持键盘选择。
+- **自由切换**：上一章 / 下一章、章内目录、完整阅读 / 只看说人话。
 - **快速筛选**：全文搜索、A级证据、钱 / 时间 / 毅力，以及本地收藏。
-- **舒适阅读**：深浅色、大字号、手机布局、减少动态效果支持。
+- **舒适阅读**：深浅色、大字号、手机布局；统一入场、展开、切换动效，跟随系统减少动态效果设置。
 - **完全离线**：单个 HTML 文件即可携带完整正文与阅读功能。
 
 ## 本地运行
@@ -40,6 +41,7 @@ npm run build
 - [人体系统专题](docs/人体系统专题.md)：7 篇原创导读、3 张原创插图，按章节推荐，支持搜索与离线阅读。
 - `content/human-system.json`：专题内容与来源；修改后运行 `node tools/companions/build.mjs` 更新网页。
 - `assets/responsive.css`：电脑、平板、手机的阅读字号、触控区域与横屏适配；由构建脚本内联到网页。
+- `assets/experience.css` 与 `tools/experience/interface.js`：章节导航与动效；构建时内联，无外部依赖。
 - `index.html`：网站界面与阅读交互。
 - `book/`：32 章 Markdown 正文。
 - `tools/offline/`：零依赖离线构建。
